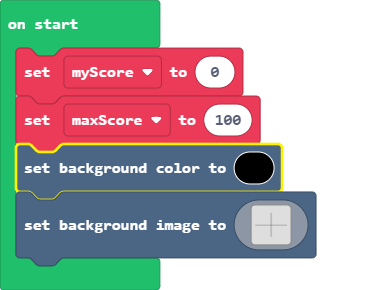
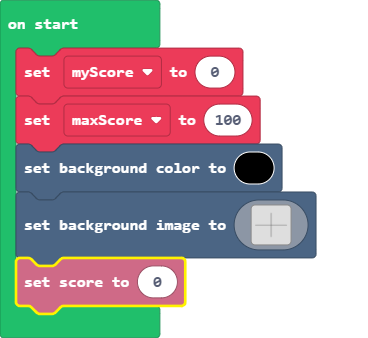
Update main.blocks, main.ts

diff --git a/main.ts b/main.ts
@@ -123,3 +123,4 @@ scene.setBackgroundImage(img`
     ................................................................................f...............................................................................
     ................................................................................f...............................................................................
     `)
+info.setScore(0)
